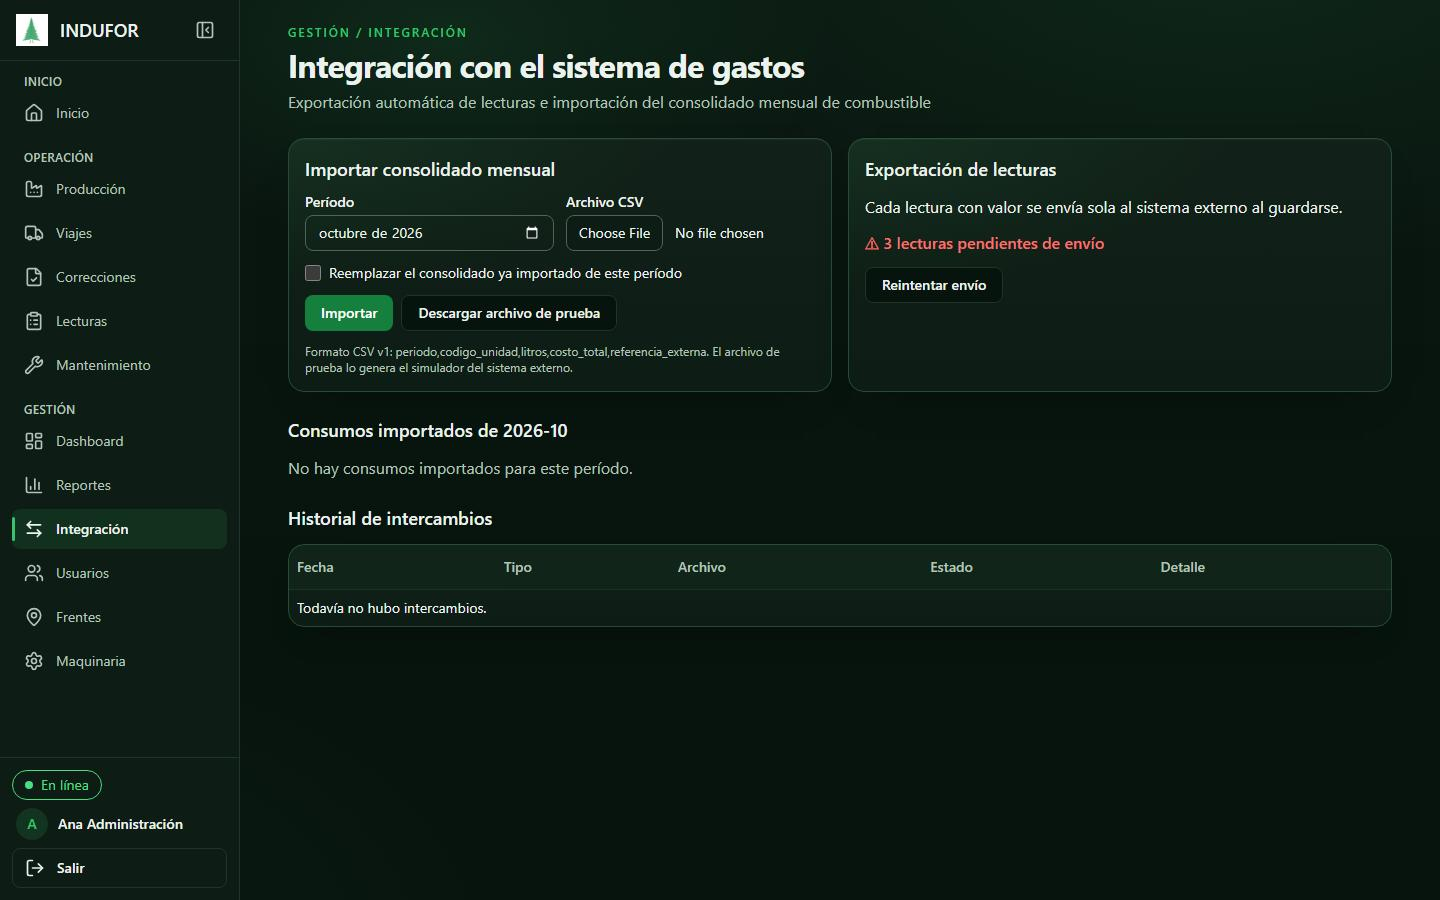
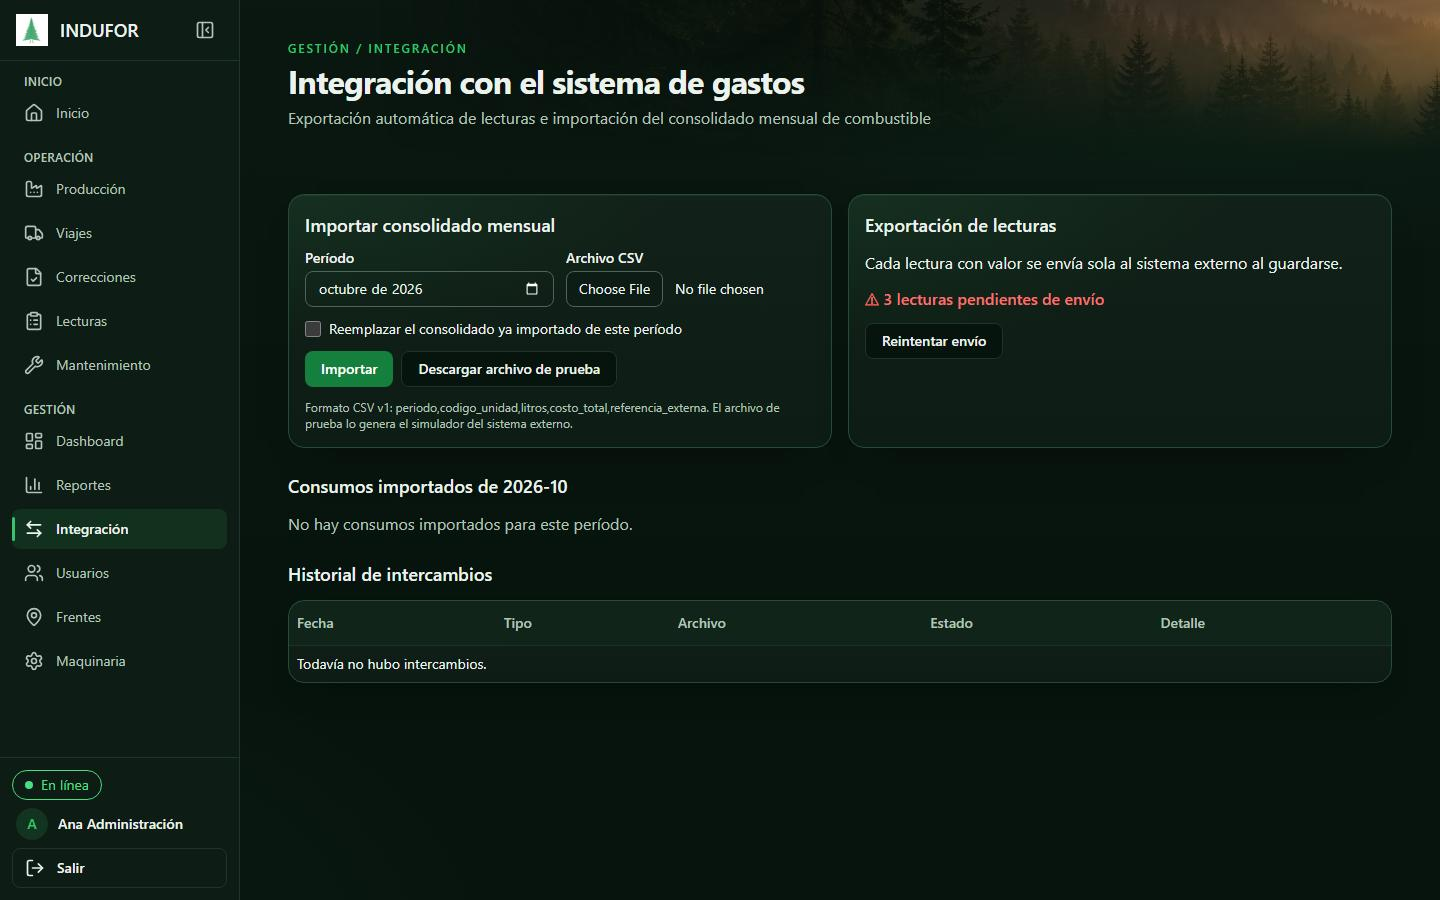
feat(forest-depth): foto del encabezado en todas las vistas
Es el valor por defecto de PageHeader; fondo={false} la quita. Sigue terminando
con el encabezado (nunca detrás de KPI ni tablas) y no se descarga en el celular.

diff --git a/frontend/src/shared/components/ForestDepth.test.tsx b/frontend/src/shared/components/ForestDepth.test.tsx
@@ -5,12 +5,12 @@ import { PageHeader } from './PageHeader'
 import { StatusBadge } from './StatusBadge'
 
 describe('Forest Depth: componentes compartidos', () => {
-  it('PageHeader: sin fondo no hay foto; con fondo, la foto es decorativa y el título sigue siendo el h1', () => {
-    const { rerender } = render(<PageHeader titulo="Producción forestal" eyebrow="Operación" descripcion="Partes" />)
+  it('PageHeader: con fondo={false} no hay foto; por defecto la foto es decorativa y el título sigue siendo el h1', () => {
+    const { rerender } = render(<PageHeader titulo="Producción forestal" eyebrow="Operación" descripcion="Partes" fondo={false} />)
     expect(screen.getByRole('heading', { level: 1, name: 'Producción forestal' })).toBeInTheDocument()
     expect(screen.queryByTestId('fondo-encabezado')).not.toBeInTheDocument()
 
-    rerender(<PageHeader titulo="Producción forestal" fondo="/header-bosque.webp" accion={<button>Cargar parte</button>} />)
+    rerender(<PageHeader titulo="Producción forestal" accion={<button>Cargar parte</button>} />)
     expect(screen.getByTestId('fondo-encabezado')).toHaveAttribute('aria-hidden', 'true')
     expect(screen.getByRole('button', { name: 'Cargar parte' })).toBeInTheDocument()
   })

diff --git a/frontend/src/shared/components/PageHeader.tsx b/frontend/src/shared/components/PageHeader.tsx
@@ -6,13 +6,14 @@ import type { ReactNode } from 'react'
  * superior y derecho del área de contenido y se funde con el canvas por máscara (izquierda y abajo). Termina con el
  * encabezado: nunca queda detrás de números ni tablas (docs/forest-depth.md). No se muestra ni se descarga en el celular.
  */
-export function PageHeader({ eyebrow, titulo, descripcion, accion, children, fondo }: {
+// La foto va en todas las vistas (pedido del 2026-11-03); `fondo={false}` la quita y deja solo el resplandor
+export function PageHeader({ eyebrow, titulo, descripcion, accion, children, fondo = '/header-bosque.webp' }: {
   eyebrow?: string
   titulo: string
   descripcion?: ReactNode
   accion?: ReactNode
   children?: ReactNode
-  fondo?: string
+  fondo?: string | false
 }) {
   return (
     <header className={`relative flex flex-wrap items-start justify-between gap-4 ${fondo ? 'sm:pt-4 sm:pb-10' : ''}`}>

diff --git a/frontend/src/features/inicio/InicioPage.tsx b/frontend/src/features/inicio/InicioPage.tsx
@@ -176,7 +176,7 @@ export function InicioPage() {
 
   return (
     <section className="grid gap-6">
-      <PageHeader eyebrow={`INDUFOR${rol && ` / ${rol}`}`} titulo={gestion ? 'Centro de operaciones' : 'Mi jornada'} fondo="/header-bosque.webp"
+      <PageHeader eyebrow={`INDUFOR${rol && ` / ${rol}`}`} titulo={gestion ? 'Centro de operaciones' : 'Mi jornada'}
         descripcion={`Hola, ${usuario?.nombre ?? ''}. ${gestion ? 'Resumen de la operación y tareas que requieren tu atención.' : 'Tus cargas y lo que tenés pendiente.'}`}
         accion={<div className="grid justify-items-end gap-1.5">
           <span className="flex items-center gap-2 rounded-full border border-border bg-card/70 px-4 py-2 text-sm font-medium"><CalendarIcon size={18} />{fechaDeHoy()}</span>

diff --git a/frontend/src/features/reports/DashboardPage.tsx b/frontend/src/features/reports/DashboardPage.tsx
@@ -30,7 +30,7 @@ export function DashboardPage() {
 
   return (
     <section className="grid gap-6">
-      <PageHeader eyebrow="Gestión / Dashboard" titulo="Dashboard gerencial" fondo="/header-bosque.webp"
+      <PageHeader eyebrow="Gestión / Dashboard" titulo="Dashboard gerencial"
         descripcion={`Quincena ${d.quincena.numero} de ${d.quincena.periodo}: del ${fecha(d.quincena.desde)} al ${fecha(d.hoy)}.`} />
 
       <div className="grid grid-cols-2 gap-2 sm:gap-3 xl:grid-cols-3">

diff --git a/docs/forest-depth.md b/docs/forest-depth.md
@@ -82,7 +82,7 @@ Las cifras de producción, consumos y lecturas van siempre con `tabular-nums`, a
 - Archivo: `frontend/public/header-bosque.webp` (2172 × 724, 404 KB).
 - Se extiende hasta el borde superior y derecho del área de contenido. El contenedor recorta lo que sobra con `overflow-x-clip`, sin scroll horizontal.
 - Se funde con una **máscara de transparencia** hacia la izquierda y hacia abajo (utilidad `header-photo`), oscurecida con `brightness(.62)`. No se usa un velo de color: un velo del color del canvas dejaba un rectángulo visible sobre la luz ambiental (corrección del 2026-11-03).
-- **Solo en Inicio y Dashboard** (vistas de resumen). **Termina con el encabezado**: la capa va de `-top-10` a `bottom-0` del header y nunca queda detrás de KPI, números ni tablas.
+- **En todas las vistas** (decisión del usuario del 2026-11-03): es el valor por defecto de `PageHeader`; `fondo={false}` la quita. **Termina con el encabezado**: la capa va de `-top-10` a `bottom-0` del header y nunca queda detrás de KPI, números ni tablas.
 - **No se muestra ni se descarga en el celular** (< 640 px): la capa es `hidden sm:block`.
 - **Fuera del precache de la PWA:** `globPatterns` no incluye `.webp`. Verificado en `dist/sw.js`.
 - Si el archivo falta, el encabezado sigue funcionando.
@@ -100,7 +100,7 @@ Toneladas con `numero()` y lecturas con `lectura()` (`features/maintenance/forma
 | Vista | Encabezado | Componentes |
 |---|---|---|
 | Inicio | `PageHeader` con foto; fecha y estado de actualización como acción | `KpiCard` por gravedad (crítico, atención, seguimiento, neutro), paneles `surface`, accesos `surface-interactive` |
-| Producción | `PageHeader` sin foto (consulta densa; auditoría antislop P1) | `KpiCard`, `FilterPanel` con etiquetas, `TablaPanel`, `StatusBadge` de madera |
+| Producción | `PageHeader` con foto | `KpiCard`, `FilterPanel` con etiquetas, `TablaPanel`, `StatusBadge` de madera |
 | Dashboard | `PageHeader` con foto | `KpiCard vertical` con ícono; alerta con ⚠ y tono atención |
 | Viajes | `PageHeader` | `FilterPanel` (limpiable), tabla `surface` apilada en el celular (`tabla-apilada`), `StatusBadge` de validación |
 | Correcciones | `PageHeader` | Tarjetas `surface`, `StatusBadge` de la solicitud |
